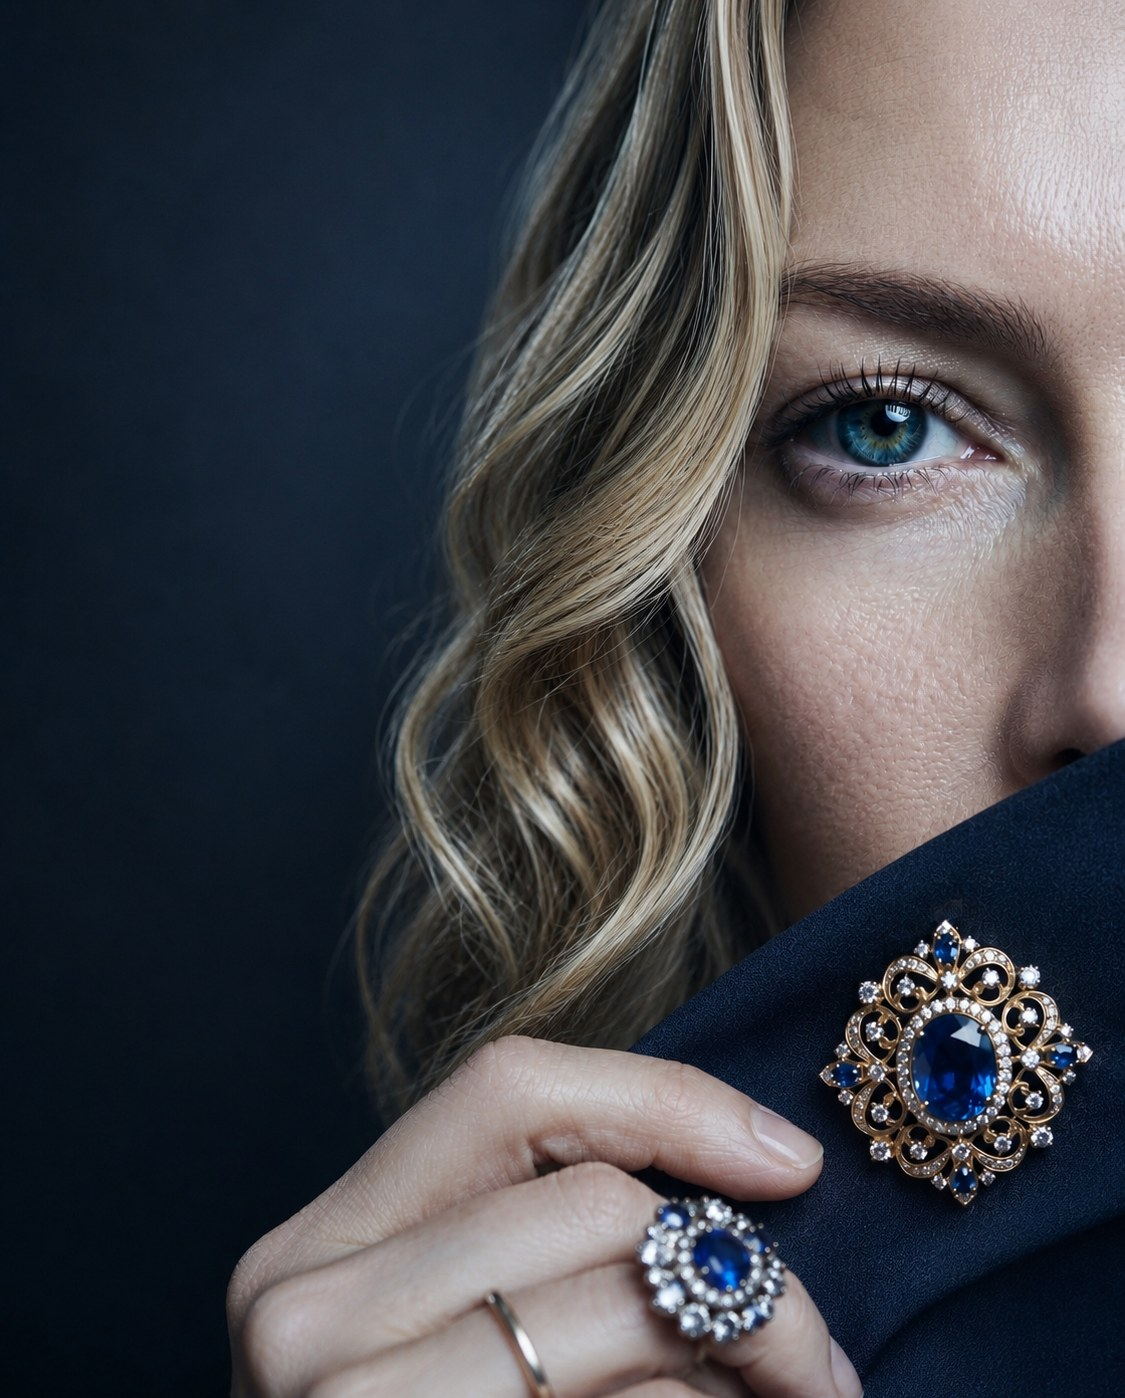
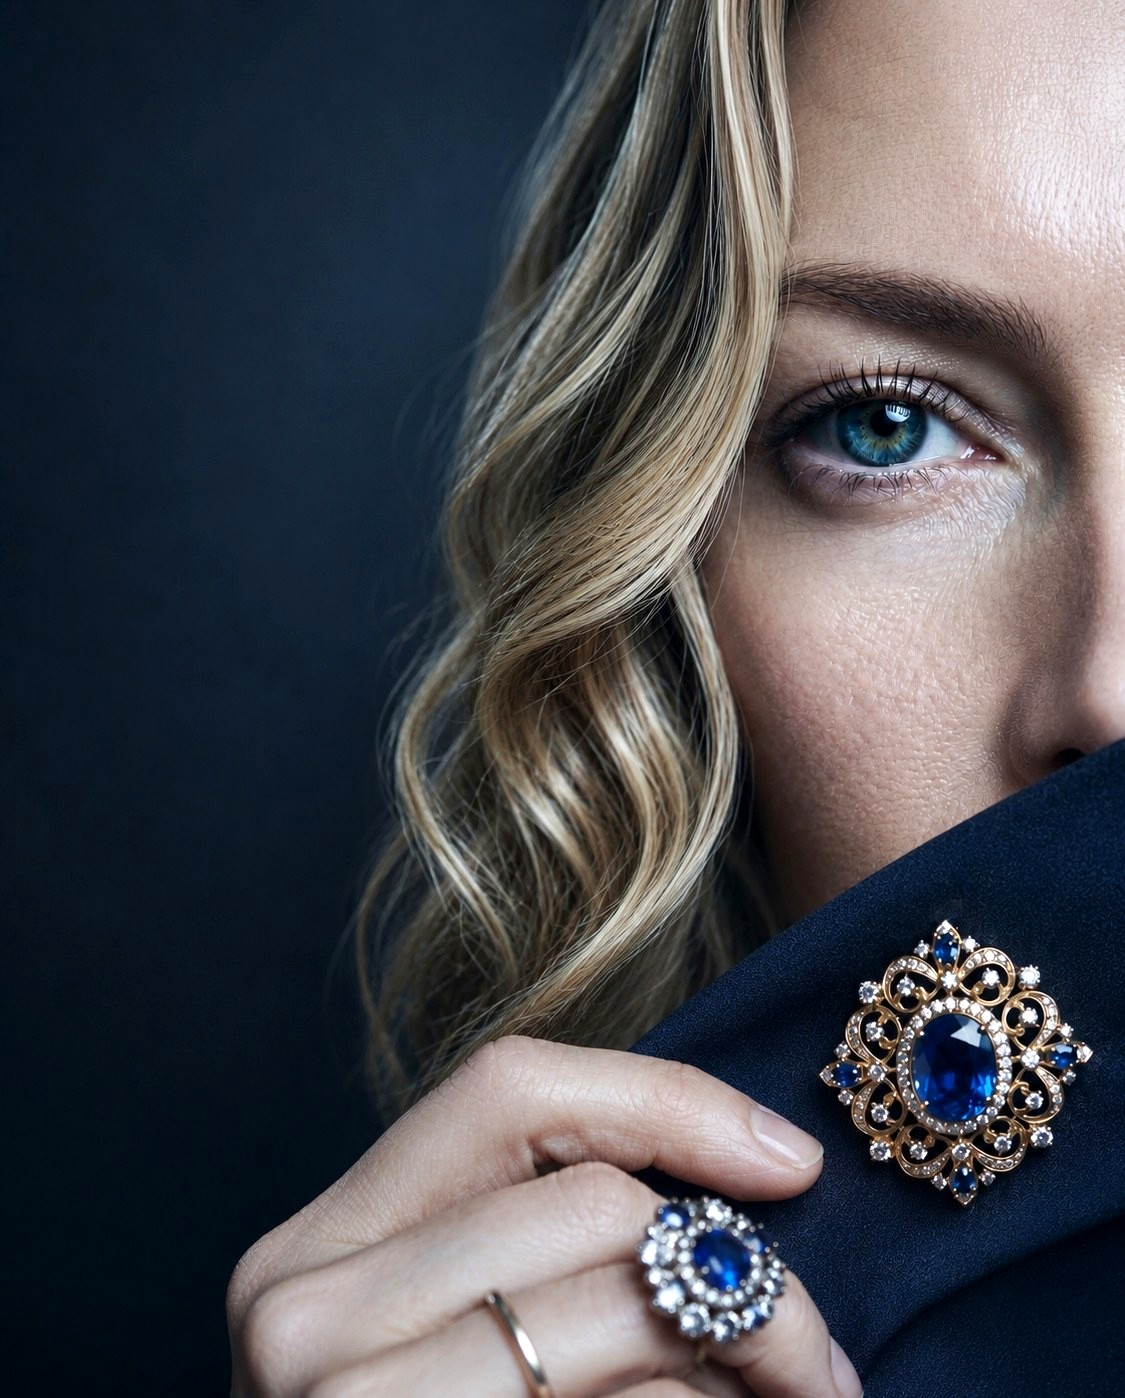
Gallery hero: brighten photo, drop darkening overlay so the woman is fully visible
Brighten the hero photo and remove the dark gradient that was sitting over the
subject. Desktop has no overlay; on mobile only a soft scrim remains behind the
text on the far left, fading out before it reaches her, so she stays fully
visible. Mobile framing panned right so the whole eye is in frame with the hand,
ring, and brooch.

https://claude.ai/code/session_01BC1FkBf5en4R9Pu4sdt9vE

diff --git a/gallery.html b/gallery.html
@@ -323,21 +323,14 @@
     z-index: 1;
   }
 
-  /* Darken the left so the editorial text stays legible. */
+  /* No darkening overlay — the woman stays fully visible; the text rests on
+     the photo's own deep-navy left. */
   .feature::after {
     content: '';
     position: absolute;
     inset: 0;
     z-index: 2;
-    background:
-      linear-gradient(90deg,
-        rgba(4, 8, 26, 0.92) 0%,
-        rgba(4, 8, 26, 0.78) 32%,
-        rgba(4, 8, 26, 0.30) 62%,
-        rgba(4, 8, 26, 0.05) 100%),
-      linear-gradient(0deg,
-        rgba(4, 8, 26, 0.55) 0%,
-        rgba(4, 8, 26, 0) 36%);
+    background: none;
     pointer-events: none;
   }
 
@@ -735,18 +728,14 @@
     /* Phones show the whole portrait full-bleed: on a tall screen cover keeps the
        complete top-to-bottom composition (eye, hand, ring, brooch) while the dark
        left stays clear for the editorial text. */
-    .feature-img { inset: 0; width: 100%; object-fit: cover; object-position: 44% center; }
-    /* Darken the left two-thirds harder on phones so text never sits on the photo. */
+    .feature-img { inset: 0; width: 100%; object-fit: cover; object-position: 62% center; }
+    /* The woman stays fully visible — a soft scrim sits ONLY behind the text on
+       the far left and fades to nothing before it reaches her. */
     .feature::after {
-      background:
-        linear-gradient(90deg,
-          rgba(4,8,26,0.96) 0%,
-          rgba(4,8,26,0.9) 42%,
-          rgba(4,8,26,0.6) 68%,
-          rgba(4,8,26,0.12) 100%),
-        linear-gradient(0deg,
-          rgba(4,8,26,0.5) 0%,
-          rgba(4,8,26,0) 34%);
+      background: linear-gradient(90deg,
+        rgba(6,11,26,0.82) 0%,
+        rgba(6,11,26,0.66) 34%,
+        rgba(6,11,26,0) 56%);
     }
     .feature-bar { top: 84px; left: 20px; right: 20px; padding: 15px 20px; }
     .feature-bar span { font-size: 11px; letter-spacing: 0.3em; }
